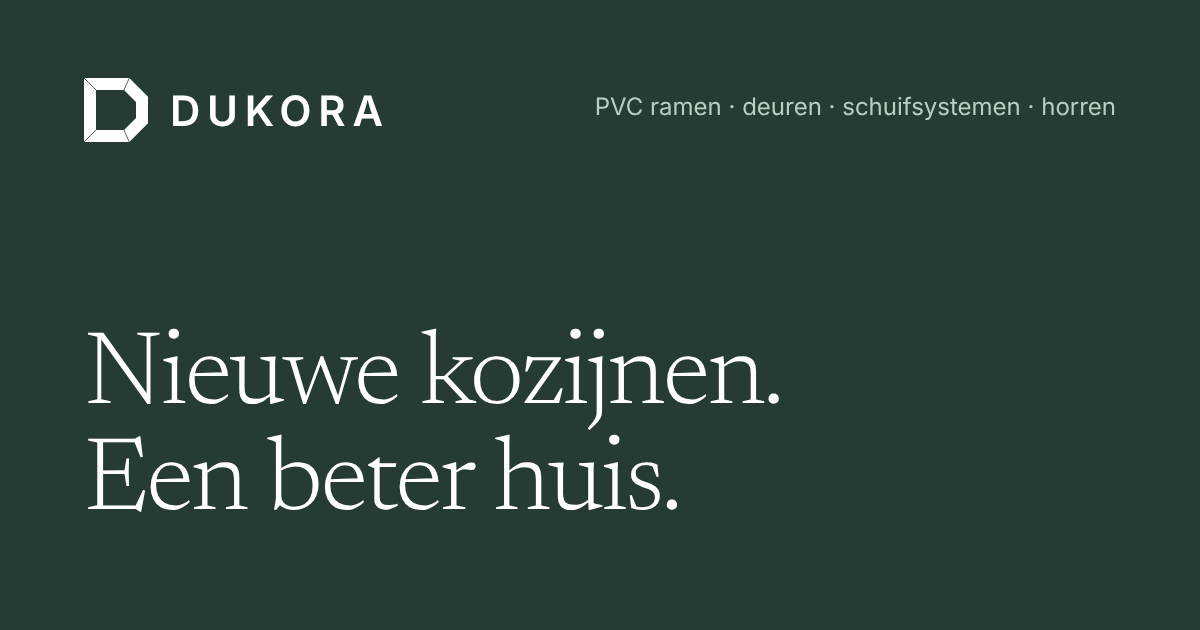
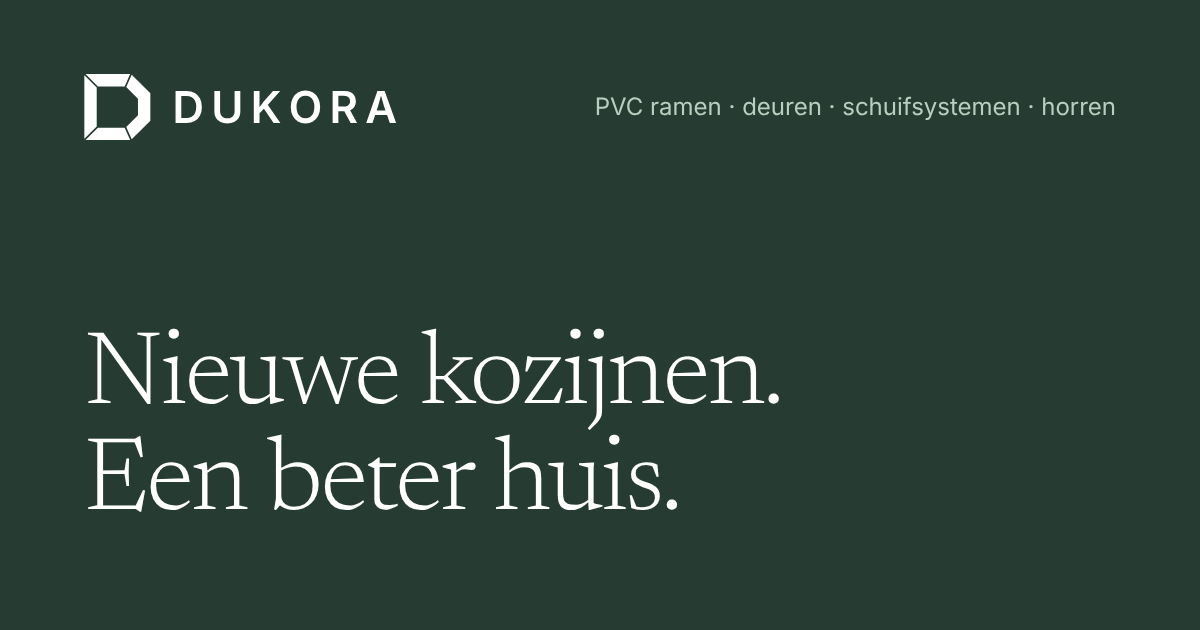
Gebruik de officiële logobestanden en maak de 'Maak kennis'-sectie visueler
- Logo, favicon, app-icoon en deelafbeelding uit de aangeleverde SVG's (public/brand)
- Woordmerk als officiële paden, beeldmerk klein (massief) onder 32 px
- Sectie met twee overlappende foto's in kozijnframes, minder tekst, grotere feiten
- Frame-component: geen relative-conflict bij absolute positionering

Claude-Session: https://claude.ai/code/session_018akjYsWZy2snFUnaCYXAt7

Changed region(s): [[0.0617, 0.1206, 0.3392, 0.2413], [0.0617, 0.1206, 0.1233, 0.1508]]

diff --git a/components/logo-data.ts b/components/logo-data.ts
@@ -1,0 +1,5 @@
+// Gegenereerd uit de aangeleverde logobestanden (public/brand/*.svg). Niet met de hand aanpassen.
+export const BEELDMERK = 'M33.343 48.000 L29.343 39.000 L9.849 39.000 L0.849 48.000 Z M48.000 34.000 L48.000 14.000 L34.455 0.455 L30.455 9.455 L39.000 18.000 L39.000 30.000 L30.455 38.545 L34.455 47.545 Z M0.849 0.000 L9.849 9.000 L29.343 9.000 L33.343 0.000 Z M0.000 47.151 L9.000 38.151 L9.000 9.849 L0.000 0.849 Z';
+export const BEELDMERK_KLEIN = 'M0.000 48.000 L34.000 48.000 L48.000 34.000 L48.000 14.000 L34.000 0.000 L0.000 0.000 Z M30.000 9.000 L39.000 18.000 L39.000 30.000 L30.000 39.000 L9.000 39.000 L9.000 9.000 Z';
+export const HORIZONTAAL = { viewBox: '0 0 227.51 48.00', merk: 'M33.343 48.000 L29.343 39.000 L9.849 39.000 L0.849 48.000 Z M48.000 34.000 L48.000 14.000 L34.455 0.455 L30.455 9.455 L39.000 18.000 L39.000 30.000 L30.455 38.545 L34.455 47.545 Z M0.849 0.000 L9.849 9.000 L29.343 9.000 L33.343 0.000 Z M0.000 47.151 L9.000 38.151 L9.000 9.849 L0.000 0.849 Z', woord: 'M74.21875 35.640625H68.328125V32.03125H74.015625Q76.453125 32.03125 78.0859375 31.1328125Q79.71875 30.234375 80.546875 28.4453125Q81.375 26.65625 81.375 23.96875Q81.375 21.3125 80.546875 19.53125Q79.71875 17.75 78.1171875 16.859375Q76.515625 15.96875 74.125 15.96875H68.203125V12.359375H74.375Q77.84375 12.359375 80.328125 13.75Q82.8125 15.140625 84.1484375 17.75Q85.484375 20.359375 85.484375 23.96875Q85.484375 27.609375 84.1484375 30.2265625Q82.8125 32.84375 80.2890625 34.2421875Q77.765625 35.640625 74.21875 35.640625ZM70.515625 12.359375V35.640625H66.34375V12.359375ZM104.010625 35.984375Q101.166875 35.984375 99.041875 34.9140625Q96.916875 33.84375 95.745 31.9453125Q94.573125 30.046875 94.573125 27.5625V12.359375H98.745V27.21875Q98.745 28.671875 99.3934375 29.8125Q100.041875 30.953125 101.2215625 31.6015625Q102.40125 32.25 104.010625 32.25Q105.62 32.25 106.7996875 31.6015625Q107.979375 30.953125 108.6278125 29.8125Q109.27625 28.671875 109.27625 27.21875V12.359375H113.448125V27.5625Q113.448125 30.046875 112.2684375 31.9453125Q111.08875 33.84375 108.9715625 34.9140625Q106.854375 35.984375 104.010625 35.984375ZM126.25562500000001 29.90625V25.953125Q127.00562500000001 24.734375 127.73218750000001 23.6640625Q128.45875 22.59375 129.2790625 21.546875Q130.099375 20.5 131.115 19.328125L137.224375 12.359375H142.411875L132.536875 23.5L132.224375 23.390625ZM123.24000000000001 35.640625V12.359375H127.41187500000001V19.265625L127.33375000000001 24.875L127.41187500000001 26.921875V35.640625ZM137.64625 35.640625 130.24 24.6875 132.865 21.546875 142.568125 35.640625ZM160.82875 35.953125Q157.76625 35.953125 155.344375 34.53125Q152.9225 33.109375 151.5240625 30.4375Q150.125625 27.765625 150.125625 24.015625Q150.125625 20.25 151.5240625 17.5703125Q152.9225 14.890625 155.344375 13.46875Q157.76625 12.046875 160.82875 12.046875Q163.875625 12.046875 166.2896875 13.46875Q168.70375 14.890625 170.1021875 17.5703125Q171.500625 20.25 171.500625 24.015625Q171.500625 27.765625 170.1021875 30.4453125Q168.70375 33.125 166.2896875 34.5390625Q163.875625 35.953125 160.82875 35.953125ZM160.82875 32.21875Q162.719375 32.21875 164.1803125 31.2734375Q165.64125 30.328125 166.469375 28.4921875Q167.2975 26.65625 167.2975 24.015625Q167.2975 21.34375 166.469375 19.5078125Q165.64125 17.671875 164.1803125 16.7265625Q162.719375 15.78125 160.82875 15.78125Q158.9225 15.78125 157.45375 16.734375Q155.985 17.6875 155.1490625 19.5234375Q154.313125 21.359375 154.313125 24.015625Q154.313125 26.65625 155.1490625 28.484375Q155.985 30.3125 157.45375 31.265625Q158.9225 32.21875 160.82875 32.21875ZM180.57375000000002 35.640625V12.359375H189.27687500000002Q191.94875000000002 12.359375 193.77687500000002 13.296875Q195.60500000000002 14.234375 196.54250000000002 15.9140625Q197.48000000000002 17.59375 197.48000000000002 19.8125Q197.48000000000002 22.03125 196.53468750000002 23.671875Q195.58937500000002 25.3125 193.74562500000002 26.203125Q191.90187500000002 27.09375 189.21437500000002 27.09375H182.99562500000002V23.640625H188.66750000000002Q190.24562500000002 23.640625 191.24562500000002 23.1953125Q192.24562500000002 22.75 192.73000000000002 21.890625Q193.21437500000002 21.03125 193.21437500000002 19.8125Q193.21437500000002 18.5625 192.73000000000002 17.6796875Q192.24562500000002 16.796875 191.23781250000002 16.328125Q190.23000000000002 15.859375 188.63625000000002 15.859375H184.74562500000002V35.640625ZM193.66750000000002 35.640625 188.01125000000002 25.078125H192.57375000000002L198.33937500000002 35.640625ZM205.00625000000002 35.640625 213.13125000000002 12.359375H218.42812500000002L226.74062500000002 35.640625H222.16250000000002L218.02187500000002 23.546875Q217.41250000000002 21.671875 216.75625000000002 19.3046875Q216.10000000000002 16.9375 215.30312500000002 13.921875H216.17812500000002Q215.39687500000002 16.96875 214.76406250000002 19.3515625Q214.13125000000002 21.734375 213.56875000000002 23.546875L209.56875000000002 35.640625ZM209.74062500000002 29.875V26.515625H222.00625000000002V29.875Z' };
+export const GESTAPELD = { viewBox: '0 0 91.97 83.10', merk: 'M56.887 56.000 L52.220 45.500 L29.476 45.500 L18.976 56.000 Z M73.986 39.667 L73.986 16.333 L58.183 0.530 L53.516 11.030 L63.486 21.000 L63.486 35.000 L53.516 44.970 L58.183 55.470 Z M18.976 0.000 L29.476 10.500 L52.220 10.500 L56.887 0.000 Z M17.986 55.010 L28.486 44.510 L28.486 11.490 L17.986 0.990 Z', woord: 'M5.748046875 83.095703125H2.4345703125V81.0654296875H5.6337890625Q7.0048828125 81.0654296875 7.92333984375 80.56005859375Q8.841796875 80.0546875 9.3076171875 79.04833984375Q9.7734375 78.0419921875 9.7734375 76.5302734375Q9.7734375 75.0361328125 9.3076171875 74.0341796875Q8.841796875 73.0322265625 7.94091796875 72.53125Q7.0400390625 72.0302734375 5.6953125 72.0302734375H2.3642578125V70.0H5.8359375Q7.787109375 70.0 9.1845703125 70.7822265625Q10.58203125 71.564453125 11.33349609375 73.0322265625Q12.0849609375 74.5 12.0849609375 76.5302734375Q12.0849609375 78.578125 11.33349609375 80.05029296875Q10.58203125 81.5224609375 9.16259765625 82.30908203125Q7.7431640625 83.095703125 5.748046875 83.095703125ZM3.6650390625 70.0V83.095703125H1.318359375V70.0ZM22.5059765625 83.2890625Q20.9063671875 83.2890625 19.7110546875 82.68701171875Q18.5157421875 82.0849609375 17.8565625 81.01708984375Q17.1973828125 79.94921875 17.1973828125 78.5517578125V70.0H19.5440625V78.3583984375Q19.5440625 79.17578125 19.90880859375 79.8173828125Q20.2735546875 80.458984375 20.93712890625 80.82373046875Q21.600703125 81.1884765625 22.5059765625 81.1884765625Q23.41125 81.1884765625 24.07482421875 80.82373046875Q24.7383984375 80.458984375 25.10314453125 79.8173828125Q25.467890625 79.17578125 25.467890625 78.3583984375V70.0H27.8145703125V78.5517578125Q27.8145703125 79.94921875 27.15099609375 81.01708984375Q26.487421875 82.0849609375 25.29650390625 82.68701171875Q24.1055859375 83.2890625 22.5059765625 83.2890625ZM35.0187890625 79.8701171875V77.646484375Q35.4406640625 76.9609375 35.84935546875 76.35888671875Q36.258046875 75.7568359375 36.71947265625 75.16796875Q37.1808984375 74.5791015625 37.7521875 73.919921875L41.1887109375 70.0H44.1066796875L38.5519921875 76.2666015625L38.3762109375 76.205078125ZM33.3225 83.095703125V70.0H35.6691796875V73.884765625L35.625234375 77.0400390625L35.6691796875 78.19140625V83.095703125ZM41.426015625 83.095703125 37.26 76.9345703125 38.7365625 75.16796875 44.1945703125 83.095703125ZM54.466171875 83.271484375Q52.743515625 83.271484375 51.3812109375 82.4716796875Q50.01890625 81.671875 49.23228515625 80.1689453125Q48.4456640625 78.666015625 48.4456640625 76.556640625Q48.4456640625 74.4384765625 49.23228515625 72.93115234375Q50.01890625 71.423828125 51.3812109375 70.6240234375Q52.743515625 69.82421875 54.466171875 69.82421875Q56.1800390625 69.82421875 57.53794921875 70.6240234375Q58.895859375 71.423828125 59.68248046875 72.93115234375Q60.4691015625 74.4384765625 60.4691015625 76.556640625Q60.4691015625 78.666015625 59.68248046875 80.17333984375Q58.895859375 81.6806640625 57.53794921875 82.47607421875Q56.1800390625 83.271484375 54.466171875 83.271484375ZM54.466171875 81.1708984375Q55.5296484375 81.1708984375 56.35142578125 80.63916015625Q57.173203125 80.107421875 57.6390234375 79.07470703125Q58.10484375 78.0419921875 58.10484375 76.556640625Q58.10484375 75.0537109375 57.6390234375 74.02099609375Q57.173203125 72.98828125 56.35142578125 72.45654296875Q55.5296484375 71.9248046875 54.466171875 71.9248046875Q53.39390625 71.9248046875 52.567734375 72.4609375Q51.7415625 72.9970703125 51.27134765625 74.02978515625Q50.8011328125 75.0625 50.8011328125 76.556640625Q50.8011328125 78.0419921875 51.27134765625 79.0703125Q51.7415625 80.0986328125 52.567734375 80.634765625Q53.39390625 81.1708984375 54.466171875 81.1708984375ZM65.572734375 83.095703125V70.0H70.4682421875Q71.971171875 70.0 72.9994921875 70.52734375Q74.0278125 71.0546875 74.55515625 71.99951171875Q75.0825 72.9443359375 75.0825 74.1923828125Q75.0825 75.4404296875 74.55076171875 76.36328125Q74.0190234375 77.2861328125 72.9819140625 77.787109375Q71.9448046875 78.2880859375 70.4330859375 78.2880859375H66.9350390625V76.345703125H70.12546875Q71.0131640625 76.345703125 71.5756640625 76.09521484375Q72.1381640625 75.8447265625 72.410625 75.361328125Q72.6830859375 74.8779296875 72.6830859375 74.1923828125Q72.6830859375 73.4892578125 72.410625 72.99267578125Q72.1381640625 72.49609375 71.57126953125 72.232421875Q71.004375 71.96875 70.107890625 71.96875H67.9194140625V83.095703125ZM72.93796875 83.095703125 69.756328125 77.154296875H72.322734375L75.5658984375 83.095703125ZM79.31601562499999 83.095703125 83.88632812499999 70.0H86.86582031249999L91.54160156249999 83.095703125H88.96640624999999L86.63730468749999 76.29296875Q86.29453124999999 75.23828125 85.92539062499999 73.90673828125Q85.55624999999999 72.5751953125 85.10800781249999 70.87890625H85.60019531249999Q85.16074218749999 72.5927734375 84.80478515624999 73.93310546875Q84.44882812499999 75.2734375 84.13242187499999 76.29296875L81.88242187499999 83.095703125ZM81.97910156249999 79.8525390625V77.962890625H88.87851562499999V79.8525390625Z' };

diff --git a/components/Logo.tsx b/components/Logo.tsx
@@ -1,25 +1,13 @@
-import { useId } from 'react';
+import { BEELDMERK, BEELDMERK_KLEIN, GESTAPELD, HORIZONTAAL } from './logo-data';
 
 /**
- * Dukora-beeldmerk: de verstek-D, gebouwd volgens de brand guide (raster 48 × 48,
- * profielbreedte 9, hoeken van 45°). De vier dunne voegen zijn de verstekverbindingen
- * en zijn echt doorzichtig, zodat het merk op elke achtergrond werkt.
- * Onder 32 px vervallen de voegen (guide: "gebruik dan de massieve versie").
+ * Dukora-beeldmerk (de verstek-D) uit de aangeleverde logobestanden.
+ * Onder 32 px gebruiken we de massieve versie zonder verstekvoegen, zoals de brand guide voorschrijft.
  */
-export function DMark({ size = 32, className = '', solid = false }: { size?: number; className?: string; solid?: boolean }) {
-  const id = useId().replace(/:/g, '');
-  const voegen = size >= 32 && !solid;
+export function DMark({ size = 32, className = '' }: { size?: number; className?: string }) {
   return (
-    <svg width={size} height={size} viewBox="0 0 48 48" aria-hidden focusable="false" className={className} fill="currentColor">
-      {voegen && (
-        <defs>
-          <mask id={`d-${id}`} maskUnits="userSpaceOnUse" x="-2" y="-2" width="52" height="52">
-            <rect x="-2" y="-2" width="52" height="52" fill="#fff" />
-            <path d="M-.5 -.5L9.5 9.5M34.4 -.9L29.6 9.9M34.4 48.9L29.6 38.1M-.7 48.7L9.7 38.3" stroke="#000" strokeWidth=".6" fill="none" />
-          </mask>
-        </defs>
-      )}
-      <path fillRule="evenodd" mask={voegen ? `url(#d-${id})` : undefined} d="M0 0H34L48 14V34L34 48H0Z M9 9H30L39 18V30L30 39H9Z" />
+    <svg width={size} height={size} viewBox="0 0 48 48" aria-hidden focusable="false" className={className} fill="currentColor" fillRule="evenodd">
+      <path d={size < 32 ? BEELDMERK_KLEIN : BEELDMERK} />
     </svg>
   );
 }
@@ -27,25 +15,21 @@ export function DMark({ size = 32, className = '', solid = false }: { size?: num
 type Variant = 'primair' | 'gestapeld' | 'beeldmerk';
 
 /**
- * Logo volgens de brand guide. Kleur komt van de tekstkleur van de ouder:
- * Bos op licht (primair), wit op Bos (negatief), Salie op Nacht (gestapeld).
- * Woordmerk: Inter Semibold, kapitalen, spatiëring +160.
+ * Logo volgens de brand guide. De kleur komt van de tekstkleur van de ouder:
+ * Bos op licht (primair), wit op Bos (negatief), Salie op Nacht (gestapeld, met wit woordmerk).
+ * `size` is de totale hoogte van het logo in px (bij `beeldmerk` de zijde).
  */
-export default function Logo({ variant = 'primair', className = '', size = 30 }: { variant?: Variant; className?: string; size?: number }) {
+export default function Logo({ variant = 'primair', className = '', size = 32, woordKleur }: { variant?: Variant; className?: string; size?: number; woordKleur?: string }) {
   if (variant === 'beeldmerk') return <DMark size={size} className={className} />;
-  const woord = 'font-sans font-semibold uppercase leading-none tracking-[.16em]';
-  if (variant === 'gestapeld') {
-    return (
-      <span className={`inline-flex flex-col items-center gap-4 ${className}`}>
-        <DMark size={size * 1.6} />
-        <span className={woord} style={{ fontSize: size * 0.66 }}>Dukora</span>
-      </span>
-    );
-  }
+  const g = variant === 'gestapeld';
+  const l = g ? GESTAPELD : HORIZONTAAL;
+  const [, , w, h] = l.viewBox.split(' ').map(Number);
+  const hoogte = size;
+  const breedte = hoogte * (w / h);
   return (
-    <span className={`inline-flex items-center ${className}`} style={{ gap: size * 0.4 }}>
-      <DMark size={size} />
-      <span className={woord} style={{ fontSize: size * 0.7 }}>Dukora</span>
-    </span>
+    <svg width={breedte} height={hoogte} viewBox={l.viewBox} role="img" aria-label="Dukora" className={className}>
+      <path d={l.merk} fill="currentColor" fillRule="evenodd" />
+      <path d={l.woord} fill={woordKleur ?? 'currentColor'} />
+    </svg>
   );
 }

diff --git a/app/page.tsx b/app/page.tsx
@@ -98,27 +98,28 @@ export default function Home() {
         </div>
       </section>
 
-      {/* Maak kennis: de zin, het verhaal, de foto en drie feiten */}
+      {/* Maak kennis: veel beeld, weinig tekst. Twee foto's overlappen in het kozijnframe. */}
       <section className="bg-white">
         <div className="wrap py-[clamp(72px,9vw,150px)]">
-          <div className="grid items-center gap-[clamp(40px,6vw,110px)] nav:grid-cols-[1.15fr_1fr]">
-            <div className="order-2 nav:order-1">
-              <h2 className="display max-w-[24ch] text-[clamp(30px,3.4vw,50px)] leading-[1.12] [text-wrap:pretty]">Wij zijn geen tussenhandel. We meten zelf in, we plaatsen zelf en we zijn er zelf als er iets nagekeken moet worden.</h2>
-              <p className="body-l mt-8">Dukora begon vijftien jaar geleden met één bus en twee monteurs. Inmiddels werken we door heel Nederland, met vaste teams die elkaars werk kennen. Wat niet veranderde: bij elk project komt er eerst iemand kijken, niet om te verkopen maar om te meten.</p>
-              <TLink href="/over-ons" className="link-cta mt-8">Lees meer over ons</TLink>
+          <div className="grid items-center gap-[clamp(40px,6vw,100px)] nav:grid-cols-[1fr_1.25fr]">
+            <div>
+              <h2 className="display max-w-[16ch] text-[clamp(32px,3.8vw,56px)] leading-[1.08]">Wij zijn geen tussenhandel.</h2>
+              <p className="lede mt-6 max-w-[34ch]">We meten zelf in, we plaatsen zelf en we zijn er zelf als er iets nagekeken moet worden.</p>
+              <TLink href="/over-ons" className="link-cta mt-9">Lees meer over ons</TLink>
             </div>
-            <div className="order-1 nav:order-2">
-              <Frame src="/img/foto/gevel-woning.webp" alt="Gevel van een woning met witte kozijnen op de begane grond en de verdieping" aspect="aspect-[4/5]" sizes="(min-width:961px) 40vw, 90vw" className="mx-auto max-w-[500px] nav:mr-0" />
+            <div className="relative mx-auto aspect-square w-full max-w-[680px] nav:mr-0">
+              <Frame src="/img/foto/gevel-woning.webp" alt="Gevel van een woning met witte kozijnen op de begane grond en de verdieping" aspect="aspect-[4/5]" sizes="(min-width:961px) 28vw, 55vw" className="absolute left-0 top-0 w-[58%]" />
+              <Frame src="/img/foto/hero-woning.webp" alt="Moderne vrijstaande woning met grote ramen en een groen gazon" aspect="aspect-[3/2]" sizes="(min-width:961px) 30vw, 60vw" className="absolute bottom-0 right-0 w-[64%]" />
             </div>
           </div>
-          <dl className="m-0 mt-[clamp(56px,7vw,104px)] grid gap-x-10 gap-y-10 sm:grid-cols-3">
+          <dl className="m-0 mt-[clamp(64px,8vw,120px)] grid gap-x-10 gap-y-10 sm:grid-cols-3">
             {FEITEN.map(([n, t, s]) => (
               <div key={t} className="border-t-2 border-antraciet pt-6">
-                <dt className="display text-[clamp(44px,4.6vw,68px)] leading-none">{n}</dt>
-                <dd className="m-0 mt-4">
-                  <span className="block text-[17px] font-semibold">{t}</span>
-                  <span className="mt-1 block text-[15.5px] leading-[1.55] text-leisteen">{s}</span>
-                </dd>
+                <dt className="flex items-baseline gap-3">
+                  <span className="display text-[clamp(56px,6vw,96px)] leading-none">{n}</span>
+                  <span className="text-[17px] font-semibold">{t}</span>
+                </dt>
+                <dd className="m-0 mt-3 text-[15.5px] leading-[1.55] text-leisteen">{s}</dd>
               </div>
             ))}
           </dl>

diff --git a/components/Footer.tsx b/components/Footer.tsx
@@ -13,7 +13,7 @@ export default function Footer() {
       <div className="wrap pb-10 pt-[clamp(64px,7vw,104px)]">
         <div className="grid gap-[clamp(36px,4vw,64px)] nav:grid-cols-[1.5fr_1fr_1fr_1fr_1fr]">
           <div>
-            <Link href="/" aria-label="Dukora, naar de homepage" className="text-salie hover:text-salie"><Logo variant="gestapeld" size={30} /></Link>
+            <Link href="/" aria-label="Dukora, naar de homepage" className="text-salie hover:text-salie"><Logo variant="gestapeld" size={104} woordKleur="#FFFFFF" /></Link>
             <p className="mt-6 max-w-[320px] text-[16px] leading-[1.65]">PVC ramen, deuren, schuifsystemen en horren. Ingemeten, geleverd en geplaatst door onze eigen mensen, in heel Nederland.</p>
             <TLink href={SITE.phoneHref} track="tel_footer" className="mt-6 block font-display text-[28px] font-light tracking-[-.02em] text-white hover:text-salie">{SITE.phone}</TLink>
           </div>

diff --git a/components/Header.tsx b/components/Header.tsx
@@ -14,7 +14,7 @@ export default function Header() {
   return (
     <header className="sticky top-0 z-[60] border-b border-lijn bg-glas/90 backdrop-blur-[18px]">
       <div className="wrap flex h-[84px] items-center justify-between gap-8">
-        <Link href="/" aria-label="Dukora, naar de homepage" className="flex-none text-dennen hover:text-dennen"><Logo size={32} /></Link>
+        <Link href="/" aria-label="Dukora, naar de homepage" className="flex-none text-dennen hover:text-dennen"><Logo size={38} /></Link>
         <nav aria-label="Hoofdmenu" className="mx-auto hidden items-center gap-1 nav:flex">
           {NAV.map((n) => {
             const actief = pathname === n.href || pathname.startsWith(n.href + '/');

diff --git a/components/Frame.tsx b/components/Frame.tsx
@@ -6,7 +6,7 @@ export default function Frame({ src, alt, aspect = 'aspect-[4/5]', priority, siz
   src: string; alt: string; aspect?: string; priority?: boolean; sizes?: string; children?: ReactNode; className?: string;
 }) {
   return (
-    <div className={`relative ${className}`}>
+    <div className={`${/\b(absolute|fixed|sticky)\b/.test(className) ? '' : 'relative'} ${className}`}>
       <div className="border border-ink/[.14] bg-white p-3 sm:p-4">
         <div className={`relative overflow-hidden ${aspect}`}>
           <Image src={src} alt={alt} fill priority={priority} sizes={sizes ?? '(min-width:961px) 40vw, 90vw'} className="object-cover" />

diff --git a/docs/BRAND.md b/docs/BRAND.md
@@ -3,13 +3,13 @@
 Samenvatting van de brand guide, zodat iedereen die aan de site werkt dezelfde regels volgt.
 
 ## Logo
-- **Beeldmerk:** de verstek-D, een D opgebouwd als kozijnprofiel (raster 48 × 48, profielbreedte 9, hoeken van 45°, vier dunne verstekvoegen). Component: `components/Logo.tsx` (`DMark`).
+- **Beeldmerk:** de verstek-D, een D opgebouwd als kozijnprofiel (raster 48 × 48, profielbreedte 9, hoeken van 45°, vier dunne verstekvoegen). Component: `components/Logo.tsx`.
 - **Woordmerk:** DUKORA in Inter Semibold, kapitalen, spatiëring +160 (`tracking-[.16em]`).
 - **Varianten:** primair (Bos op wit), negatief (wit op Bos), gestapeld (Salie op Nacht), beeldmerk los (favicon, app, social).
 - **Vrije ruimte:** minimaal ¾ van de hoogte van het beeldmerk rondom.
 - **Minimaal formaat:** logo 96 px, beeldmerk 16 px. Onder 32 px vervallen de voegen (massieve versie).
 - **Niet doen:** vervormen, draaien, andere kleuren, laag contrast, schaduwen, verlopen of effecten.
-- De logo's op de site zijn nagebouwd uit de constructietekening. Heeft u de originele SVG-bestanden, vervang dan `DMark` en `app/icon.svg`.
+- **Bestanden:** de officiële logobestanden staan in `public/brand/` (primair, antraciet, wit, gestapeld, beeldmerk in Bos, Salie en wit, klein en app-icoon). De componenten gebruiken dezelfde paden (`components/logo-data.ts`, gegenereerd uit die bestanden). Pas die paden niet met de hand aan.
 
 ## Kleur
 | Naam | Hex | Gebruik |
